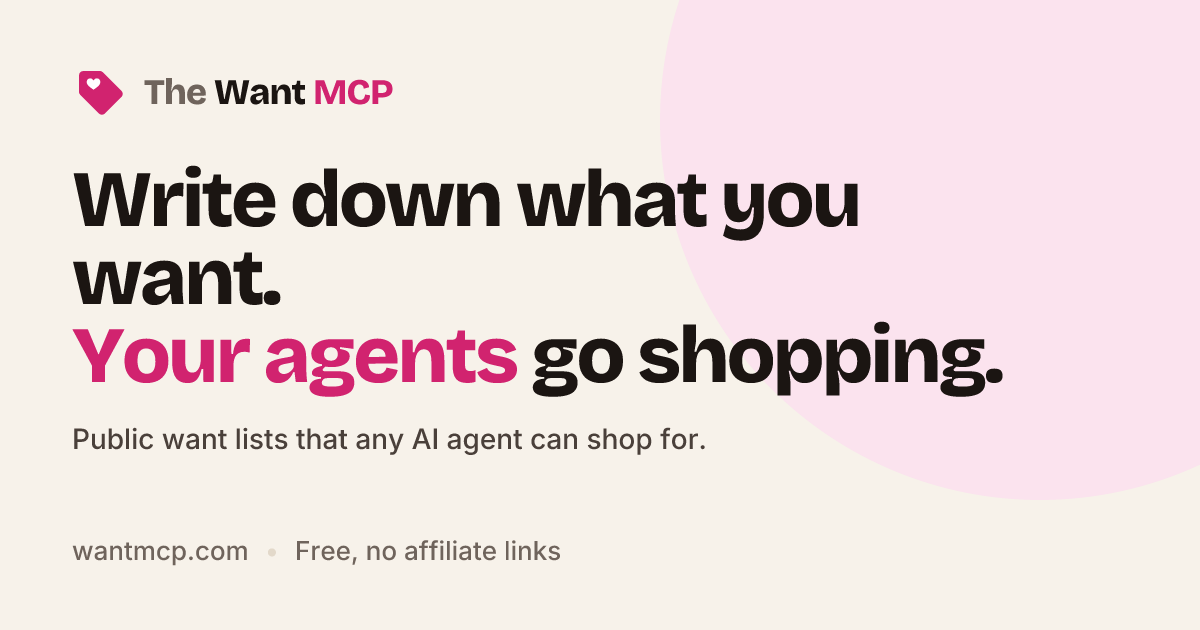
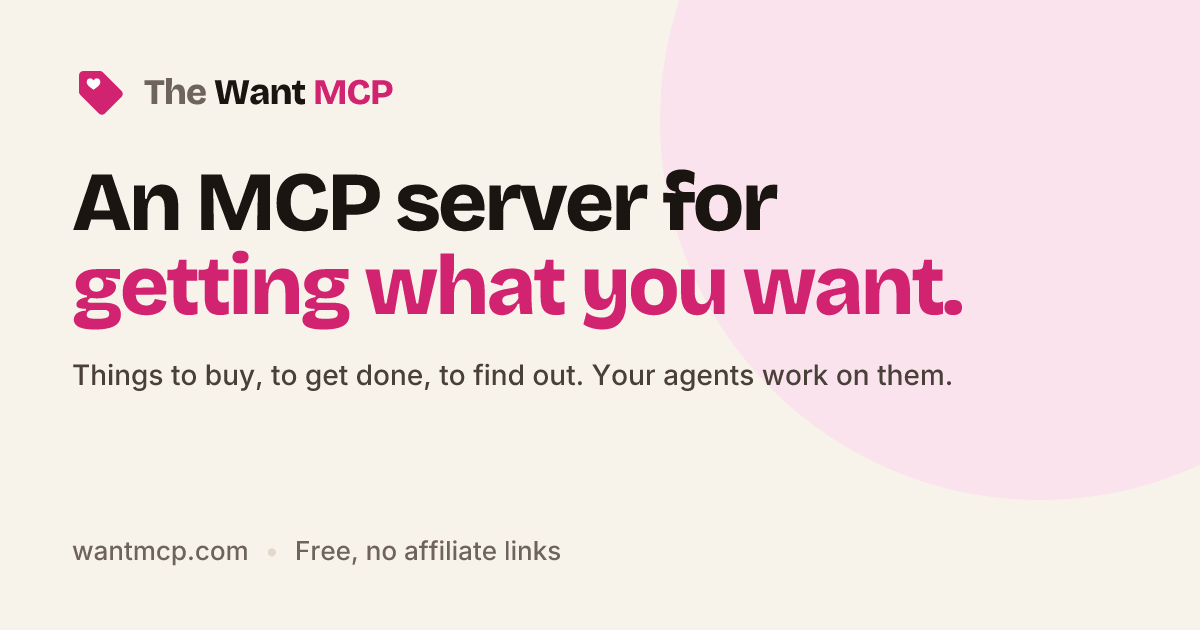
Share image: new tagline card, regenerated fallback og.png

Changed region(s): [[0.0617, 0.2413, 0.8325, 0.6333], [0.0617, 0.6635, 0.5858, 0.7238]]

diff --git a/app/routes/home.tsx b/app/routes/home.tsx
@@ -35,7 +35,7 @@ export function meta({ loaderData }: Route.MetaArgs) {
     { property: "og:description", content: description },
     { property: "og:url", content: `${origin}/` },
     // Bump v when the home card design changes.
-    { property: "og:image", content: `${origin}/og/home.png?v=3` },
+    { property: "og:image", content: `${origin}/og/home.png?v=4` },
     { property: "og:image:width", content: "1200" },
     { property: "og:image:height", content: "630" },
     { property: "og:image:alt", content: "The Want MCP: write down what you want, your agents go shopping." },

diff --git a/workers/og.tsx b/workers/og.tsx
@@ -114,7 +114,7 @@ function HomeCard() {
           <span style={{ color: C.want }}>getting what you want.</span>
         </div>
         <div style={{ display: "flex", marginTop: 30, fontSize: 28, color: C.ink2, fontWeight: 500 }}>
-          Things to buy, things to get done, things to find out. Your agents work on them.
+          Things to buy, to get done, to find out. Your agents work on them.
         </div>
       </div>
       <div style={{ display: "flex", marginTop: "auto", alignItems: "center", gap: 16, fontSize: 26, color: C.ink3, fontWeight: 500 }}>

diff --git a/app/routes/connect.tsx b/app/routes/connect.tsx
@@ -33,7 +33,7 @@ export function meta({ loaderData }: Route.MetaArgs) {
     { property: "og:title", content: "Connect an agent to The Want MCP" },
     { property: "og:description", content: description },
     { property: "og:url", content: `${origin}/connect` },
-    { property: "og:image", content: `${origin}/og/home.png?v=3` },
+    { property: "og:image", content: `${origin}/og/home.png?v=4` },
     { name: "twitter:card", content: "summary_large_image" },
   ];
 }

diff --git a/app/routes/themes.tsx b/app/routes/themes.tsx
@@ -23,7 +23,7 @@ export function meta({ loaderData }: Route.MetaArgs) {
     { tagName: "link", rel: "canonical", href: `${origin}/themes` },
     { property: "og:title", content: "Want list themes" },
     { property: "og:description", content: description },
-    { property: "og:image", content: `${origin}/og/home.png?v=3` },
+    { property: "og:image", content: `${origin}/og/home.png?v=4` },
   ];
 }
 
